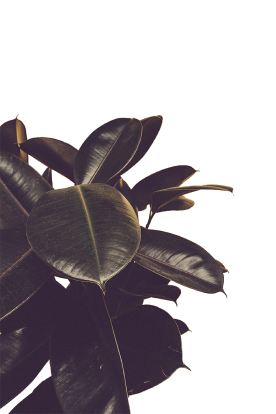
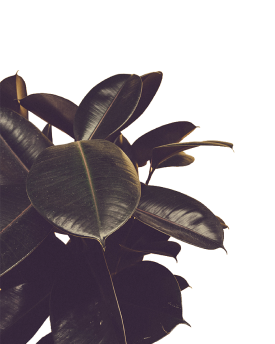
conserto total carrinho e ajuste nas imagens

diff --git a/src/pages/carrinho/index.js b/src/pages/carrinho/index.js
@@ -50,8 +50,8 @@ function Carrinho() {
                         Total: R$ { 
                             
                             ItensCarrinho.reduce((total, atual) => {
-                                const item = plantasJson.find(planta => planta.id = atual.id)
-                                return total + (item.preco * atual.quantidade)
+                                const item = plantasJson.find(planta => planta.id === atual.id)
+                                return total + item.preco * atual.quantidade
                             }, 0)
                             
                         }
